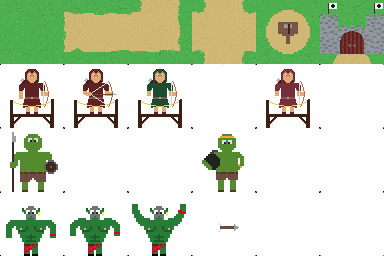
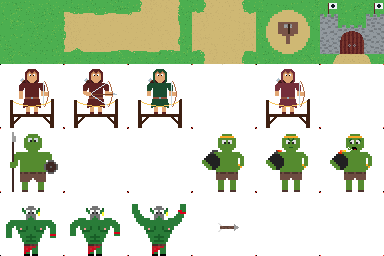
nieuwe bomber toegevoegd. Enkel visueel werkt hij nog niet zo goed dus daar moet ik nog checken.

Changed region(s): [[0.8438, 0.5, 0.9688, 0.75], [0.6875, 0.5, 0.8125, 0.75]]

diff --git a/Tower_defense/src/helpz/Constants.java b/Tower_defense/src/helpz/Constants.java
@@ -89,7 +89,7 @@ public class Constants {
 		
 		public static final int ORC = 3;
 		public static final int GOBLIN = 4;
-		public static final int idk = 5;
+		public static final int BOMBER = 5;
 
 		public static int GetReward(int enemyType) {
 			switch (enemyType) {
@@ -97,6 +97,8 @@ public class Constants {
 				return 10;
 			case GOBLIN:
 				return 5;
+			case BOMBER:
+				return 7;
 			}
 			return 0;
 		}
@@ -107,6 +109,8 @@ public class Constants {
 				return 0.5f;
 			case GOBLIN:
 				return 0.7f;
+			case BOMBER:
+				return 1f;
 
 			}
 			return 0;
@@ -118,6 +122,8 @@ public class Constants {
 				return 85;
 			case GOBLIN:
 				return 100;
+			case BOMBER:
+				return 75;
 			}
 			return 0;
 		}
@@ -126,6 +132,8 @@ public class Constants {
 			case ORC:
 				return 3;
 			case GOBLIN:
+				return 2;
+			case BOMBER:
 				return 2;
 			}
 			return 0;
@@ -136,6 +144,8 @@ public class Constants {
 				return 0;
 			case GOBLIN:
 				return 0;
+			case BOMBER:
+				return 3;
 			}
 			return 0;
 		}
@@ -144,6 +154,8 @@ public class Constants {
 			case ORC:
 				return 2;
 			case GOBLIN:
+				return 1;
+			case BOMBER:
 				return 1;
 			}
 			return 0;

diff --git a/Tower_defense/src/enemy/Enemy.java b/Tower_defense/src/enemy/Enemy.java
@@ -8,7 +8,7 @@ import scenes.Playing;
 
 public class Enemy {
 	private Rectangle bounds;
-	private int health, ID, reward, spriteX, spriteY, dmg;
+	private int health, ID, reward, spriteX, spriteY, dmg; //alles van ID is denk ik overbodig
 	private int enemyType;// wss is oververving beter verschillen in subclasses 
 	
 	// algemene variablen voor de movement
@@ -21,7 +21,7 @@ public class Enemy {
 	public int timerhelp;
 	
 	
-	public Enemy(float x, float y, int ID, int enemyType, EnemyManager enemymanager) {
+	public Enemy(int enemyType, EnemyManager enemymanager) {
 		this.ID = ID;
 		this.enemyType = enemyType;
 		this.enemymanager = enemymanager;

diff --git a/Tower_defense/src/managers/EnemyManager.java b/Tower_defense/src/managers/EnemyManager.java
@@ -22,7 +22,7 @@ public class EnemyManager {
 	public EnemyManager(Playing playing) {
 		this.playing = playing;
 		enemyImgs = new BufferedImage[4];
-		addEnemy();
+		addEnemy(helpz.Constants.Enemies.ORC);
 		loadEnemyImgs();
 	}
 	
@@ -93,8 +93,8 @@ public class EnemyManager {
 		
 		
 	}
-	public void addEnemy() {
-		enemies.add (new Enemy(0, 0, 0, 3, this));
+	public void addEnemy(int enemytype) {
+		enemies.add (new Enemy(enemytype, this));
 		enemies.size();
 	}
 	

diff --git a/Tower_defense/src/enemy/Goblin.java b/Tower_defense/src/enemy/Goblin.java
@@ -6,8 +6,8 @@ import static helpz.Constants.Enemies.*;
 
 public class Goblin extends Enemy{
 	
-	public Goblin(float x, float y, int ID, EnemyManager em) {		//EnemyManager?
-		super(x, y, ID, GOBLIN, em);
+	public Goblin(EnemyManager em) {		//EnemyManager?
+		super(GOBLIN, em);
 				
 	}
 

diff --git a/Tower_defense/src/enemy/Orc.java b/Tower_defense/src/enemy/Orc.java
@@ -6,8 +6,8 @@ import static helpz.Constants.Enemies.*;
 
 public class Orc extends Enemy{
 	
-	public Orc(float x, float y, int ID, EnemyManager em) {		//EnemyManager?
-		super(x, y, ID, ORC, em);
+	public Orc(EnemyManager em) {		//EnemyManager?
+		super(ORC, em);
 		
 	}
 

diff --git a/Tower_defense/src/scenes/Playing.java b/Tower_defense/src/scenes/Playing.java
@@ -119,7 +119,7 @@ public void mouseLeftClicked(int x, int y) {
 			
 			}
 		else if (x<Constants.DimSprite & y<Constants.DimSprite){
-			enemyManager.addEnemy();
+			enemyManager.addEnemy(helpz.Constants.Enemies.GOBLIN);
 		}
 		//i++;
 		} //effe voorlopig

diff --git a/Tower_defense/src/enemy/Bomber.java b/Tower_defense/src/enemy/Bomber.java
@@ -1,0 +1,11 @@
+package enemy;
+
+import managers.EnemyManager;
+import static helpz.Constants.Enemies.*;
+
+public class Bomber extends Enemy {
+
+	public Bomber(EnemyManager em) {		//EnemyManager?
+		super(BOMBER, em);
+		}
+}
